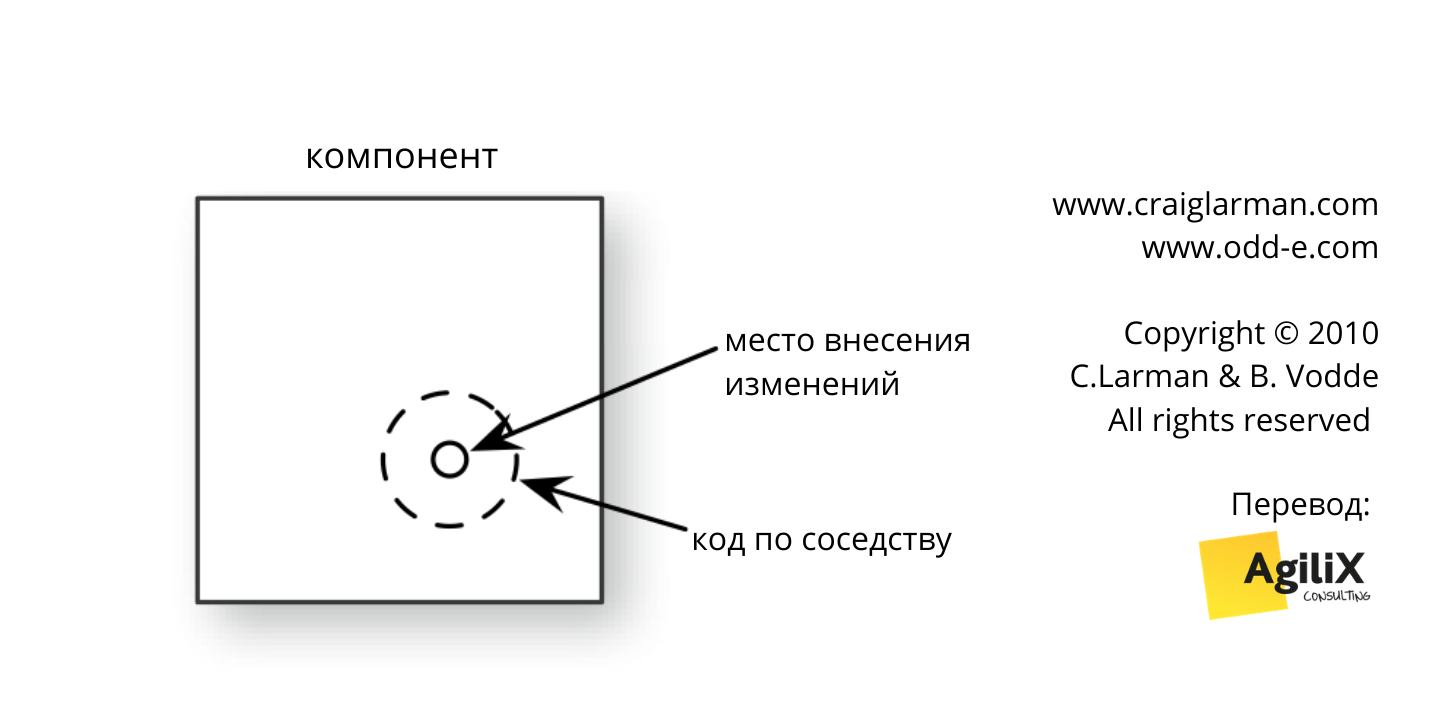
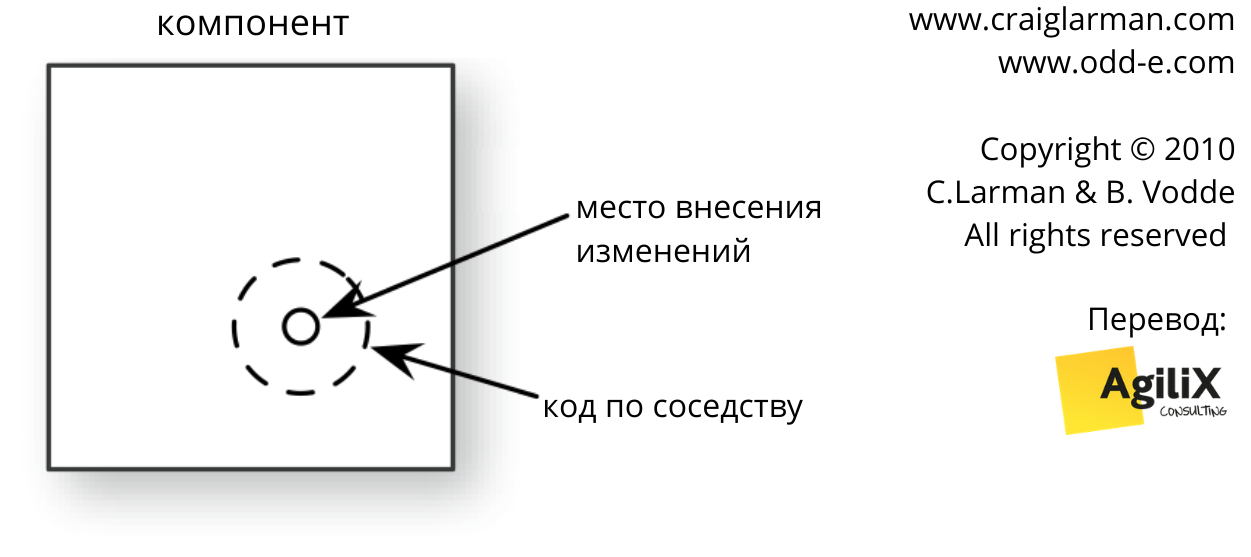
fixed identation in pictures

diff --git a/legacy-code.ru.md b/legacy-code.ru.md
@@ -4,7 +4,7 @@
 
 Если вы работаете в большой продуктовой группе, то скорее всего за время чтения [статей на сайте less.works](https://less.works/ru/less/technical-excellence/index.html) вы, вероятно, думали: *“Этот [ресурс](https://less.works/ru) содержит столько полезных идей, но у нас пять миллионов строк кода, написанных на нашем собственном языке программирования, которые нам нужно поддерживать. У нас это не сработает”*. Тогда эта статья как раз для вас.
 
-Существующий хорошо структурированный переиспользуемый код безусловно является ценным активом. Тем не менее, со временем этот актив может стать плохо структурированным унаследованным кодом без автотестов (legacy code) с неактулаьной документацией и большим количеством дублирований. Унаследованный код ограничивает организационную гибкость, и как мы увидим, ведёт к серьёзному ослаблению вашей конкуретной способности. Это статья о том, как писать такой унаследованный код, и том как этого избегать.
+Существующий хорошо структурированный переиспользуемый код безусловно является ценным активом. Тем не менее, со временем этот актив может превратиться в унаследованный (legacy code) - с плохой структурой, без автотестов, с неактуальной документацией и большим количеством дублирований. Унаследованный код ограничивает организационную гибкость, и как мы увидим, ведёт к серьёзному ослаблению вашей конкурентной способности. Это статья о том, как писать такой унаследованный код, и том как этого избегать.
 
 Но перед погружением в тему нужно будет отметить, сколько рабочих мест существует благодаря унаследованному коду. Мы путешествуем по миру и часто работаем в развивающихся странах. В этих странах люди вышли из бедности благодаря рабочим местам, созданным для поддержки устаревшего кода. Например, в Индии и Китае несколько городов существенно развились, как в размерах, так и по уровню жизни за последнее десятилетие не без помощи индустрии заказной разработки (outsourcing industry), а большая её часть относится к унаследованному коду. Мы это ценим.
 
